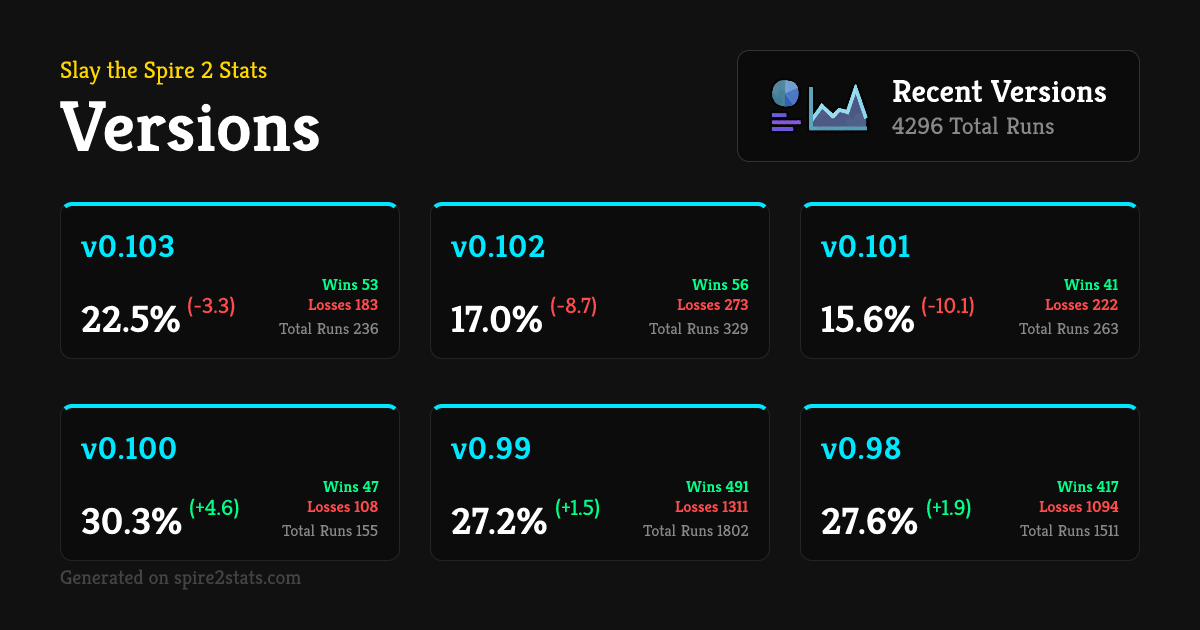
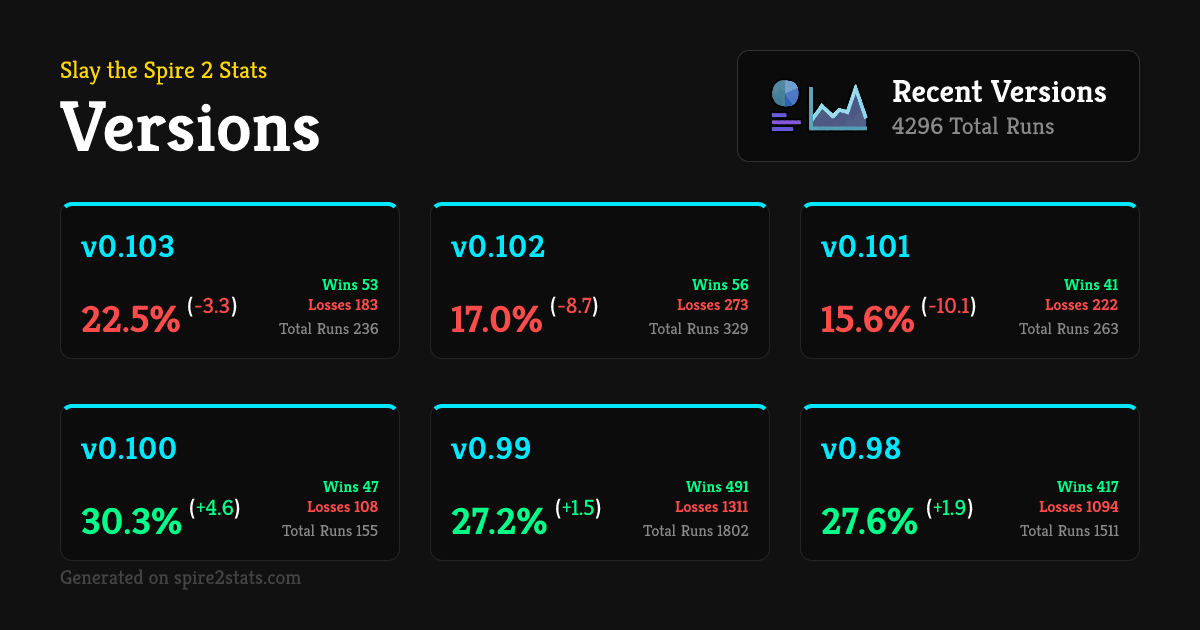
1

diff --git a/ssg/utils/templates/build-png/version-png.js b/ssg/utils/templates/build-png/version-png.js
@@ -20,9 +20,9 @@ export function getVersionSummaryTemplate(versions, icon) {
         <div style="display: flex; flex-direction: column; background: rgba(0,0,0,0.3); border: 1px solid rgba(255,255,255,0.1); border-top: 4px solid #00e8ff; padding: 20px; border-radius: 12px; width: 340px; margin-bottom: 20px;">
             <div style="color: #00e8ff; font-size: 32px; margin-bottom: 8px; font-weight: bold; letter-spacing: 1px;">${v.id}</div>
             <div style="display: flex; justify-content: space-between; align-items: flex-end;">
-                <div style="display: flex; align-items: flex-start; font-size: 38px; font-weight: bold; color: #fff; line-height: 1;">
-                    <span style="align-self: flex-end;">${winrate}%</span>
-                    <span style="font-size: 22px; color: ${diffColor}; margin-left: 6px; font-weight: normal; transform: translateY(-6px);">(${diffSign}${diff.toFixed(1)})</span>
+                <div style="display: flex; align-items: flex-start; font-size: 38px; font-weight: bold; line-height: 1;">
+                    <span style="align-self: flex-end; color: ${diffColor};">${winrate}%</span>
+                    <span style="font-size: 22px; color: #fff; margin-left: 6px; font-weight: normal; transform: translateY(-6px);">(<span style="color: ${diffColor};">${diffSign}${diff.toFixed(1)}</span>)</span>
                 </div>
                 <div style="display: flex; flex-direction: column; align-items: flex-end;">
                     <div style="font-size: 16px; color: #00ff89; font-weight: bold;">Wins ${v.wins}</div>
